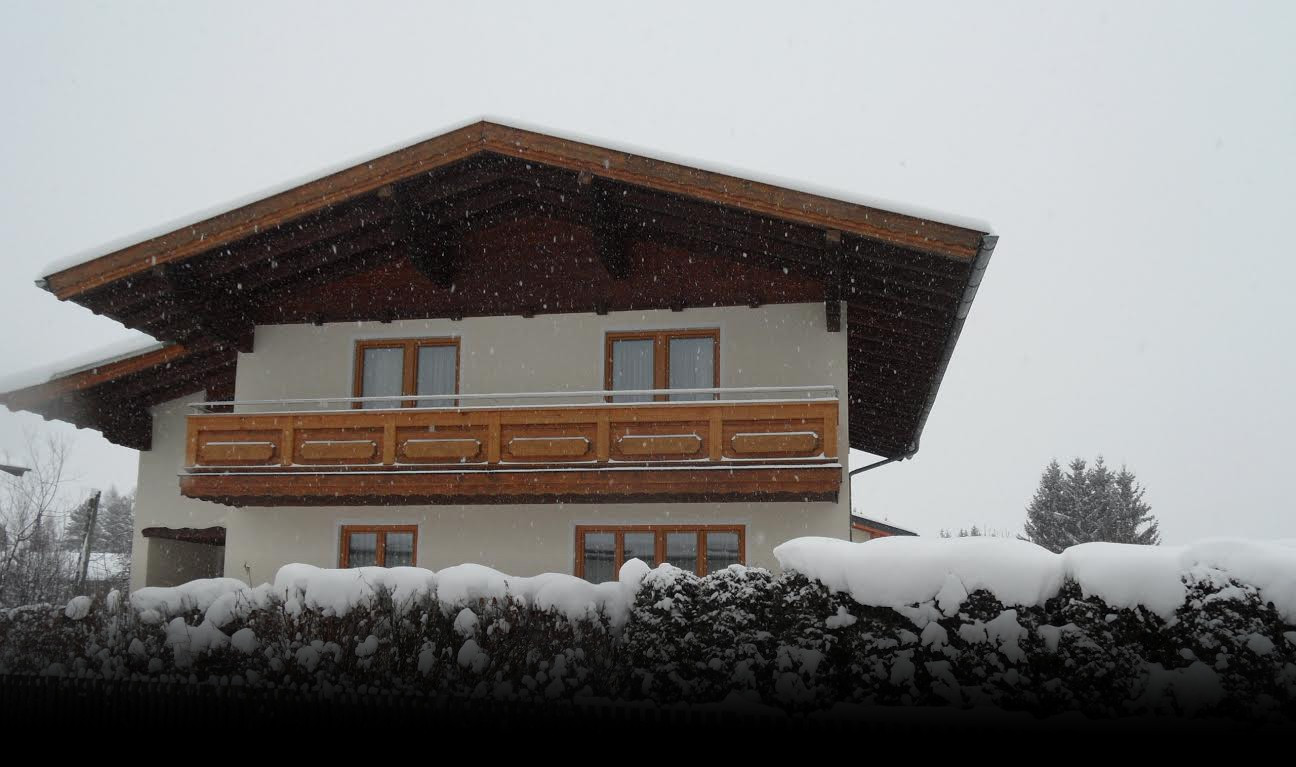
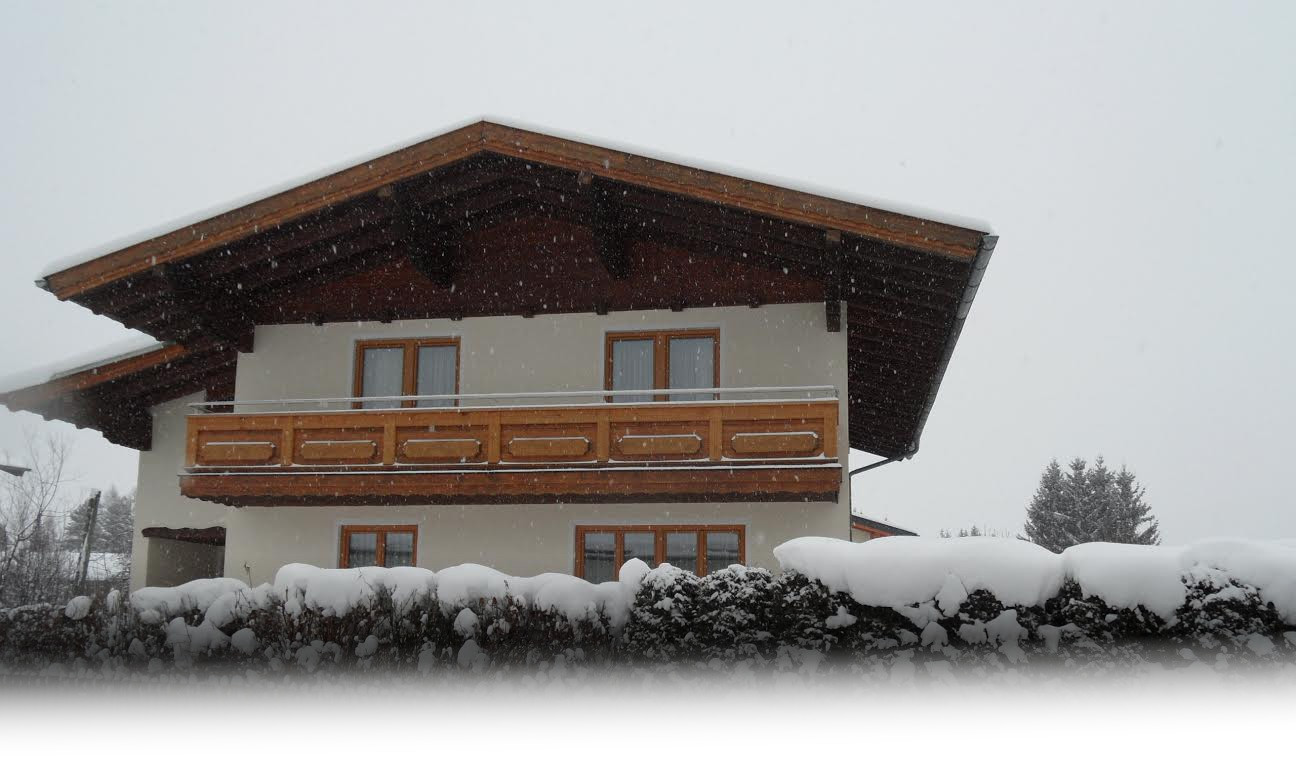
try white background

Changed region(s): [[0.0, 0.8096, 1.0, 1.0]]

diff --git a/css/grayscale.min.css b/css/grayscale.min.css
@@ -2,4 +2,4 @@
  * Start Bootstrap - Grayscale v3.3.7+1 (http://startbootstrap.com/template-overviews/grayscale)
  * Copyright 2013-2017 Start Bootstrap
  * Licensed under MIT (https://github.com/BlackrockDigital/startbootstrap/blob/gh-pages/LICENSE)
- */body{width:100%;height:100%;font-family:Lato,"Helvetica Neue",Helvetica,Arial,sans-serif;color:#fff;background-color:#000}html{width:100%;height:100%}h1,h2,h3,h4,h5,h6{margin:0 0 35px;text-transform:uppercase;font-family:Montserrat,"Helvetica Neue",Helvetica,Arial,sans-serif;font-weight:700;letter-spacing:1px}p{margin:0 0 25px;font-size:18px;line-height:1.5}@media (min-width:768px){p{margin:0 0 35px;font-size:20px;line-height:1.6}}a{color:#1057e0;-webkit-transition:all .2s ease-in-out;-moz-transition:all .2s ease-in-out;transition:all .2s ease-in-out}a:focus,a:hover{text-decoration:none;color:#093281}.light{font-weight:400}.navbar-custom{margin-bottom:0;border-bottom:1px solid rgba(255,255,255,.3);text-transform:uppercase;font-family:Montserrat,"Helvetica Neue",Helvetica,Arial,sans-serif;background-color:#000}.navbar-custom .navbar-toggle{color:#fff;background-color:rgba(255,255,255,.2);font-size:12px}.navbar-custom .navbar-toggle:active,.navbar-custom .navbar-toggle:focus{outline:0}.navbar-custom .navbar-brand{font-weight:700}.navbar-custom .navbar-brand:focus{outline:0}.navbar-custom a{color:#fff}.navbar-custom .nav li a{-webkit-transition:background .3s ease-in-out;-moz-transition:background .3s ease-in-out;transition:background .3s ease-in-out}.navbar-custom .nav li a:hover{color:rgba(255,255,255,.8);outline:0;background-color:transparent}.navbar-custom .nav li a:active,.navbar-custom .nav li a:focus{outline:0;background-color:transparent}.navbar-custom .nav li.active{outline:0}.navbar-custom .nav li.active a{background-color:rgba(255,255,255,.3)}.navbar-custom .nav li.active a:hover{color:#fff}@media (min-width:768px){.navbar-custom{padding:20px 0;border-bottom:none;letter-spacing:1px;background:0 0;-webkit-transition:background .5s ease-in-out,padding .5s ease-in-out;-moz-transition:background .5s ease-in-out,padding .5s ease-in-out;transition:background .5s ease-in-out,padding .5s ease-in-out}.navbar-custom.top-nav-collapse{padding:0;background:#000;border-bottom:1px solid rgba(255,255,255,.3)}}.intro{display:table;width:100%;height:auto;padding:100px 0;text-align:center;color:#fff;background:url(../img/intro-bg.jpg) no-repeat bottom center scroll;background-color:#000;-webkit-background-size:cover;-moz-background-size:cover;background-size:cover;-o-background-size:cover}.intro .intro-body{display:table-cell;vertical-align:middle}.intro .intro-body .brand-heading{font-size:40px}.intro .intro-body .intro-text{font-size:18px}@media (min-width:768px){.intro{height:100%;padding:0}.intro .intro-body .brand-heading{font-size:100px}.intro .intro-body .intro-text{font-size:26px}}.btn-circle{width:70px;height:70px;margin-top:15px;padding:7px 16px;border:2px solid #fff;border-radius:100%!important;font-size:40px;color:#fff;background:0 0;-webkit-transition:background .3s ease-in-out;-moz-transition:background .3s ease-in-out;transition:background .3s ease-in-out}.btn-circle:focus,.btn-circle:hover{outline:0;color:#fff;background:rgba(255,255,255,.1)}.btn-circle i.animated{-webkit-transition-property:-webkit-transform;-webkit-transition-duration:1s;-moz-transition-property:-moz-transform;-moz-transition-duration:1s}.btn-circle:hover i.animated{-webkit-animation-name:pulse;-moz-animation-name:pulse;-webkit-animation-duration:1.5s;-moz-animation-duration:1.5s;-webkit-animation-iteration-count:infinite;-moz-animation-iteration-count:infinite;-webkit-animation-timing-function:linear;-moz-animation-timing-function:linear}@-webkit-keyframes pulse{0%{-webkit-transform:scale(1);transform:scale(1)}50%{-webkit-transform:scale(1.2);transform:scale(1.2)}100%{-webkit-transform:scale(1);transform:scale(1)}}@-moz-keyframes pulse{0%{-moz-transform:scale(1);transform:scale(1)}50%{-moz-transform:scale(1.2);transform:scale(1.2)}100%{-moz-transform:scale(1);transform:scale(1)}}.content-section{padding-top:100px}.download-section{width:100%;padding:50px 0;color:#fff;background:url(../img/downloads-bg.jpg) no-repeat center center scroll;background-color:#000;-webkit-background-size:cover;-moz-background-size:cover;background-size:cover;-o-background-size:cover}#map{width:100%;height:200px;margin-top:100px}@media (min-width:767px){.download-section{padding:100px 0}#map{height:400px;margin-top:250px}}.btn{text-transform:uppercase;font-family:Montserrat,"Helvetica Neue",Helvetica,Arial,sans-serif;font-weight:400;-webkit-transition:all .3s ease-in-out;-moz-transition:all .3s ease-in-out;transition:all .3s ease-in-out;border-radius:0}.btn-default{border:1px solid #1057e0;color:#1057e0;background-color:transparent}.btn-default:focus,.btn-default:hover{border:1px solid #1057e0;outline:0;color:#000;background-color:#1057e0}ul.banner-social-buttons{margin-top:0}@media (max-width:1199px){ul.banner-social-buttons{margin-top:15px}}@media (max-width:767px){ul.banner-social-buttons li{display:block;margin-bottom:20px;padding:0}ul.banner-social-buttons li:last-child{margin-bottom:0}}footer{padding:50px 0}footer p{margin:0}::-moz-selection{text-shadow:none;background:#fcfcfc;background:rgba(255,255,255,.2)}::selection{text-shadow:none;background:#fcfcfc;background:rgba(255,255,255,.2)}img::selection{background:0 0}img::-moz-selection{background:0 0}body{webkit-tap-highlight-color:rgba(255,255,255,.2)}
+ */body{width:100%;height:100%;font-family:Lato,"Helvetica Neue",Helvetica,Arial,sans-serif;color:#000;background-color:#fff}html{width:100%;height:100%}h1,h2,h3,h4,h5,h6{margin:0 0 35px;text-transform:uppercase;font-family:Montserrat,"Helvetica Neue",Helvetica,Arial,sans-serif;font-weight:700;letter-spacing:1px}p{margin:0 0 25px;font-size:18px;line-height:1.5}@media (min-width:768px){p{margin:0 0 35px;font-size:20px;line-height:1.6}}a{color:#1057e0;-webkit-transition:all .2s ease-in-out;-moz-transition:all .2s ease-in-out;transition:all .2s ease-in-out}a:focus,a:hover{text-decoration:none;color:#093281}.light{font-weight:400}.navbar-custom{margin-bottom:0;border-bottom:1px solid rgba(255,255,255,.3);text-transform:uppercase;font-family:Montserrat,"Helvetica Neue",Helvetica,Arial,sans-serif;background-color:#000}.navbar-custom .navbar-toggle{color:#fff;background-color:rgba(255,255,255,.2);font-size:12px}.navbar-custom .navbar-toggle:active,.navbar-custom .navbar-toggle:focus{outline:0}.navbar-custom .navbar-brand{font-weight:700}.navbar-custom .navbar-brand:focus{outline:0}.navbar-custom a{color:#fff}.navbar-custom .nav li a{-webkit-transition:background .3s ease-in-out;-moz-transition:background .3s ease-in-out;transition:background .3s ease-in-out}.navbar-custom .nav li a:hover{color:rgba(255,255,255,.8);outline:0;background-color:transparent}.navbar-custom .nav li a:active,.navbar-custom .nav li a:focus{outline:0;background-color:transparent}.navbar-custom .nav li.active{outline:0}.navbar-custom .nav li.active a{background-color:rgba(255,255,255,.3)}.navbar-custom .nav li.active a:hover{color:#fff}@media (min-width:768px){.navbar-custom{padding:20px 0;border-bottom:none;letter-spacing:1px;background:0 0;-webkit-transition:background .5s ease-in-out,padding .5s ease-in-out;-moz-transition:background .5s ease-in-out,padding .5s ease-in-out;transition:background .5s ease-in-out,padding .5s ease-in-out}.navbar-custom.top-nav-collapse{padding:0;background:#000;border-bottom:1px solid rgba(255,255,255,.3)}}.intro{display:table;width:100%;height:auto;padding:100px 0;text-align:center;color:#fff;background:url(../img/intro-bg.jpg) no-repeat bottom center scroll;background-color:#000;-webkit-background-size:cover;-moz-background-size:cover;background-size:cover;-o-background-size:cover}.intro .intro-body{display:table-cell;vertical-align:middle}.intro .intro-body .brand-heading{font-size:40px}.intro .intro-body .intro-text{font-size:18px}@media (min-width:768px){.intro{height:100%;padding:0}.intro .intro-body .brand-heading{font-size:100px}.intro .intro-body .intro-text{font-size:26px}}.btn-circle{width:70px;height:70px;margin-top:15px;padding:7px 16px;border:2px solid #fff;border-radius:100%!important;font-size:40px;color:#fff;background:0 0;-webkit-transition:background .3s ease-in-out;-moz-transition:background .3s ease-in-out;transition:background .3s ease-in-out}.btn-circle:focus,.btn-circle:hover{outline:0;color:#fff;background:rgba(255,255,255,.1)}.btn-circle i.animated{-webkit-transition-property:-webkit-transform;-webkit-transition-duration:1s;-moz-transition-property:-moz-transform;-moz-transition-duration:1s}.btn-circle:hover i.animated{-webkit-animation-name:pulse;-moz-animation-name:pulse;-webkit-animation-duration:1.5s;-moz-animation-duration:1.5s;-webkit-animation-iteration-count:infinite;-moz-animation-iteration-count:infinite;-webkit-animation-timing-function:linear;-moz-animation-timing-function:linear}@-webkit-keyframes pulse{0%{-webkit-transform:scale(1);transform:scale(1)}50%{-webkit-transform:scale(1.2);transform:scale(1.2)}100%{-webkit-transform:scale(1);transform:scale(1)}}@-moz-keyframes pulse{0%{-moz-transform:scale(1);transform:scale(1)}50%{-moz-transform:scale(1.2);transform:scale(1.2)}100%{-moz-transform:scale(1);transform:scale(1)}}.content-section{padding-top:100px}.download-section{width:100%;padding:50px 0;color:#fff;background:url(../img/downloads-bg.jpg) no-repeat center center scroll;background-color:#000;-webkit-background-size:cover;-moz-background-size:cover;background-size:cover;-o-background-size:cover}#map{width:100%;height:200px;margin-top:100px}@media (min-width:767px){.download-section{padding:100px 0}#map{height:400px;margin-top:250px}}.btn{text-transform:uppercase;font-family:Montserrat,"Helvetica Neue",Helvetica,Arial,sans-serif;font-weight:400;-webkit-transition:all .3s ease-in-out;-moz-transition:all .3s ease-in-out;transition:all .3s ease-in-out;border-radius:0}.btn-default{border:1px solid #1057e0;color:#1057e0;background-color:transparent}.btn-default:focus,.btn-default:hover{border:1px solid #1057e0;outline:0;color:#000;background-color:#1057e0}ul.banner-social-buttons{margin-top:0}@media (max-width:1199px){ul.banner-social-buttons{margin-top:15px}}@media (max-width:767px){ul.banner-social-buttons li{display:block;margin-bottom:20px;padding:0}ul.banner-social-buttons li:last-child{margin-bottom:0}}footer{padding:50px 0}footer p{margin:0}::-moz-selection{text-shadow:none;background:#fcfcfc;background:rgba(255,255,255,.2)}::selection{text-shadow:none;background:#fcfcfc;background:rgba(255,255,255,.2)}img::selection{background:0 0}img::-moz-selection{background:0 0}body{webkit-tap-highlight-color:rgba(255,255,255,.2)}

diff --git a/css/grayscale.css b/css/grayscale.css
@@ -7,8 +7,8 @@ body {
   width: 100%;
   height: 100%;
   font-family: "Lato", "Helvetica Neue", Helvetica, Arial, sans-serif;
-  color: white;
-  background-color: black;
+  color: black;
+  background-color: white;
 }
 html {
   width: 100%;

diff --git a/less/grayscale.less b/less/grayscale.less
@@ -5,8 +5,8 @@ body {
     width: 100%;
     height: 100%;
     font-family: "Lato","Helvetica Neue",Helvetica,Arial,sans-serif;
-    color: white;
-    background-color: black;
+    color: black;
+    background-color: white;
 }
 
 html {
